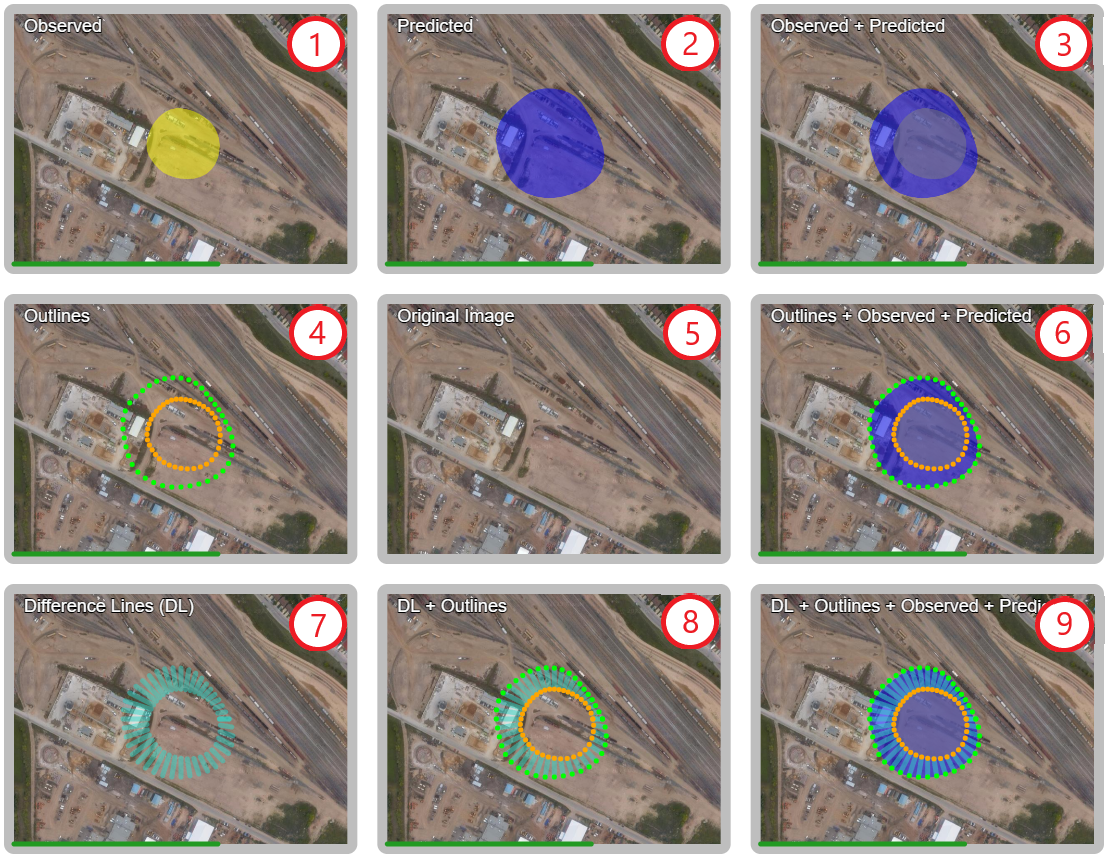
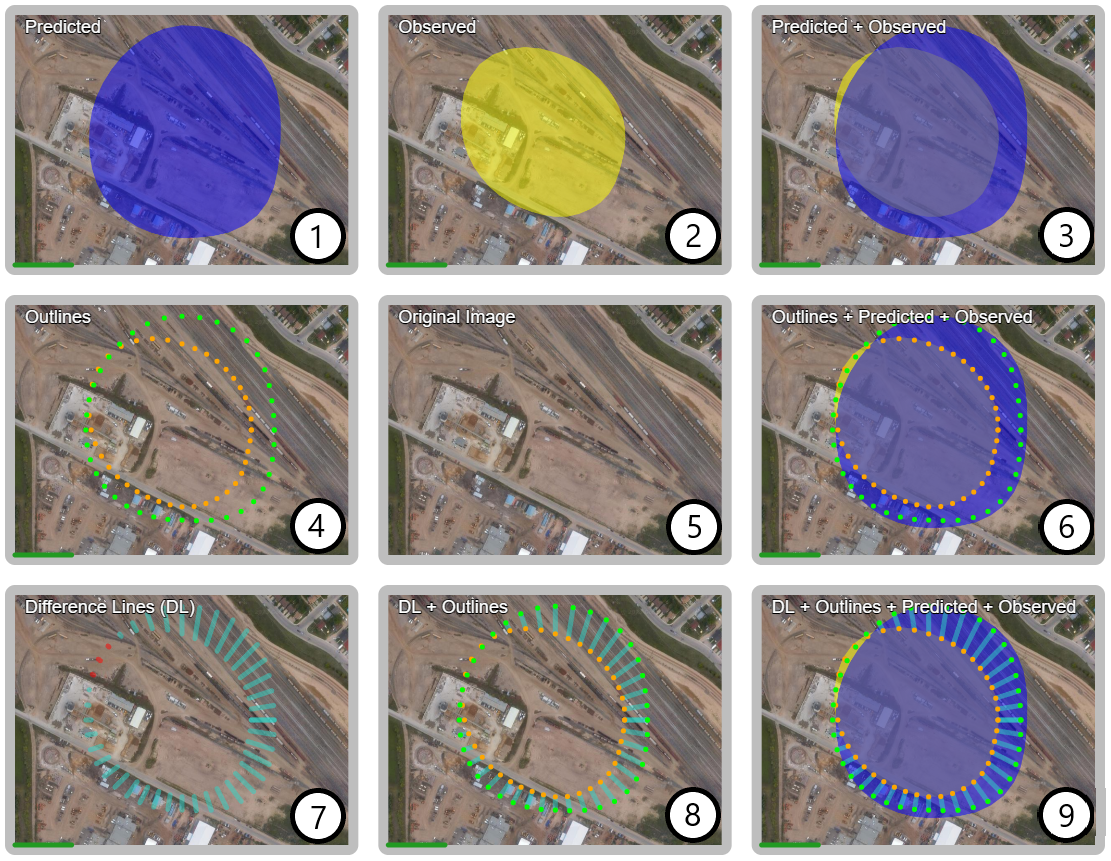
Modified tutorial 5 resulting from a misunderstanding of representation.

diff --git a/nodejs-timelapse-project/pages/tutorial5.html b/nodejs-timelapse-project/pages/tutorial5.html
@@ -41,6 +41,7 @@
             overflow-y: scroll;
             display: flex;
             flex-direction: column;
+            font-size: 20px;
         }
 
         .sidebarContent img {
@@ -134,17 +135,17 @@
 
             clear();
 
-            drawDisplay("Observed", (backgroundWidth + 20) * 0 + 20 * 1, (backgroundHeight + 20) * 0 + 20 * 1, true, false, false, false);
-            drawDisplay("Predicted", (backgroundWidth + 20) * 1 + 20 * 2, (backgroundHeight + 20) * 0 + 20 * 1, false, true, false, false);
-            drawDisplay("Observed + Predicted", (backgroundWidth + 20) * 2 + 20 * 3, (backgroundHeight + 20) * 0 + 20 * 1, true, true, false, false);
+            drawDisplay("Predicted", (backgroundWidth + 20) * 0 + 20 * 1, (backgroundHeight + 20) * 0 + 20 * 1, true, false, false, false);
+            drawDisplay("Observed", (backgroundWidth + 20) * 1 + 20 * 2, (backgroundHeight + 20) * 0 + 20 * 1, false, true, false, false);
+            drawDisplay("Predicted + Observed", (backgroundWidth + 20) * 2 + 20 * 3, (backgroundHeight + 20) * 0 + 20 * 1, true, true, false, false);
 
             drawDisplay("Outlines", (backgroundWidth + 20) * 0 + 20 * 1, (backgroundHeight + 20) * 1 + 20 * 2, false, false, true, false);
             drawDisplay("Original Image", (backgroundWidth + 20) * 1 + 20 * 2, (backgroundHeight + 20) * 1 + 20 * 2, false, false, false, false);
-            drawDisplay("Outlines + Observed + Predicted", (backgroundWidth + 20) * 2 + 20 * 3, (backgroundHeight + 20) * 1 + 20 * 2, true, true, true, false);
+            drawDisplay("Outlines + Predicted + Observed", (backgroundWidth + 20) * 2 + 20 * 3, (backgroundHeight + 20) * 1 + 20 * 2, true, true, true, false);
 
             drawDisplay("Difference Lines (DL)", (backgroundWidth + 20) * 0 + 20 * 1, (backgroundHeight + 20) * 2 + 20 * 3, false, false, false, true);
             drawDisplay("DL + Outlines", (backgroundWidth + 20) * 1 + 20 * 2, (backgroundHeight + 20) * 2 + 20 * 3, false, false, true, true);
-            drawDisplay("DL + Outlines + Observed + Predicted", (backgroundWidth + 20) * 2 + 20 * 3, (backgroundHeight + 20) * 2 + 20 * 3, true, true, true, true);
+            drawDisplay("DL + Outlines + Predicted + Observed", (backgroundWidth + 20) * 2 + 20 * 3, (backgroundHeight + 20) * 2 + 20 * 3, true, true, true, true);
         }
 
         function findMiddle(index1, index2) {
@@ -178,7 +179,7 @@
         /**
          * Draw a display for the explicit encoding blob example.
          */
-        function drawDisplay(label, left, top, observed, predicted, outlines, lines) {
+        function drawDisplay(label, left, top, predicted, observed, outlines, lines) {
             colorMode(RGB, 255);
             noStroke();
             fill(190, 190, 190);
@@ -314,82 +315,79 @@
         <div id="tutorialContent" class="sidebarContent hidden">
             <h1>Tutorial 5 - Explicit Encoding</h1>
             <p>
-                For the final task, imagine that you are an environmental protection researcher working for Environment
-                Canada who has developed a method to predict the scope of on-land oil spillages. Now, you need to test
-                the
-                accuracy of your prediction model using collected data from past oil spills.
+                For the final task, imagine that you are a microbiologist working for Environment Canada. You have been
+                researching the effectiveness of hydrocarbon-eating bacteria in cleaning up oil spills, and now that
+                you’ve tested these bacteria, you need to see how well they did against the predicted models.
             </p>
             <p>
-                To the left you will see nine side-by-side displays that you can use to compare the predicted model with
-                the
-                observed data. The displays have been laid out in a grid. Each
-                display is labeled with what is being represented. Here is a brief description of each representation:
+                To the left you will see nine side-by-side displays that you can use to compare the effectiveness of the
+                bacteria. Each display is running on a constant loop. A video progress bar is drawn under each display
+                to indicate the position in the video. Press spacebar to pause/play. Use the left and right arrow keys
+                to rewind/fast-forward.
             </p>
             <img src="../tutorials/img/tutorial-task-5-1.png" />
-            <ol>
-                <li>
-                    Display 1 is a video of the observed data from the oil spill, represented as a yellow blob and
-                    stacked over the original satellite image of the area of effect.
-                </li>
-                <li>
-                    Display 2 is a video of the predicted model data of the oil spill. This is represented as a blue
-                    blob,
-                    also stacked over the original image.
-                </li>
-                <li>
-                    Display 3 combines the observed and predicted data into a single overlayed video.
-                </li>
-                <li>
-                    Display 4 takes the outlines of the perimeters of both the observed and predicted data blobs and
-                    stacks them into one video. The orange outline is the observed data, while the green outline
-                    is the predicted data.
-                </li>
-                <li>
-                    Display 5 is a static image of the original area of effect.
-                </li>
-                <li>
-                    Display 6 combines the original blobs for the observed and predicted data with the outlined points
-                    in one overlayed video.
-                </li>
-                <li>
-                    Display 7 uses a technique called difference lines (DL). Difference lines is a representation of the
-                    relationship between the observed and predicted blobs. You will notice that the colours of lines
-                    change
-                    as the video plays. This means that the relationship has changed. If the observed data is farther
-                    from
-                    the center than the predicted data, then the lines will be coloured red. If the predicted data is
-                    farther from the center, then the lines will be coloured blue.
-                </li>
-                <li>
-                    Display 8 combines difference lines and the perimeter outlines of the data into one video.
-                </li>
-                <li>
-                    Display 9 combines every technique (i.e., observed & predicted data, perimeter outlines, and
-                    difference
-                    lines) into one overlay.
-                </li>
-            </ol>
+            <strong>
+                Displays are labeled. But for convenience, they will be described as displays 1 through 9 as in the
+                figure above. The middle image (display 5) is the original area of effect.
+            </strong>
             <p>
-                Each display is running in a constant loop. A video progress bar is drawn under each display to indicate
-                the
-                position in the video. Press spacebar to pause and use the left and right arrow keys to
-                rewind/fast-forward.
-                You can now test your model against the observed data.
+                Display 1 represents the predicted simulation of the effectiveness of the hydrocarbon-eating bacteria.
+                The blue blob represents the predicted scope of the oil spill over time. Display 2 represents the
+                observational data collected during an actual oil spill. The yellow
+                blob represents the true scope of the spill being reduced over time by the bacteria.
+            </p>
+            <img src="../tutorials/img/tutorial-task-5-2.png" />
+            <p>
+                Using these two videos to compare:
             </p>
             <ul>
-                <li>
-                    Does your model do a good job of predicting the scope of an oil spill?
-                </li>
-                <li>
-                    Does your model over-predict/under-predict the scope of the spill?
-                </li>
-                <li>
-                    If so, when, and where does this occur?
-                </li>
+                <li>Are the bacteria working as effectively as the simulation predicted?</li>
+                <li>Do the bacteria under/over-perform? If so, when, and where does this occur?</li>
             </ul>
             <p>
-                Once you are satisfied with your analysis, you can leave this page.
+                Display 3 combines both the predicted and the observed oil spill data into a single video.
             </p>
+            <img src="../tutorials/img/tutorial-task-5-3.png" />
+            <p>
+                Using this video to compare:
+            </p>
+            <ul>
+                <li>Are the bacteria working as effectively as the simulation predicted? Has your answer changed?</li>
+                <li>Do you prefer this combined video over the separate videos? Why or why not?</li>
+            </ul>
+            <p>
+                Display 4 introduces another representation of the oil spill over time. Dotted outlines are placed
+                around the perimeter of the predicted and observed data to replace the blobs. Display 6 combines the
+                outline representation with the spill blobs.
+            </p>
+            <img src="../tutorials/img/tutorial-task-5-4.png" />
+            <p>
+                Using these two videos to compare:
+            </p>
+            <ul>
+                <li>Are the bacteria working as effectively as the simulation predicted? Has your answer changed?</li>
+                <li>Which display do you prefer and why?</li>
+                <li>Does the outline technique make it easier to compare than the blobs? Why or why not?</li>
+            </ul>
+            <p>
+                Finally, display 7 introduces a representation of the difference between the predicted and observed oil
+                spill data called difference lines (DL). You will notice that the line colours change as the video
+                plays. The lines are coloured blue where the predicted blob is larger, and they are coloured red where
+                the observed blob is larger.
+            </p>
+            <p>
+                Display 8 combines this technique with perimeter outlines, and display 9 combines all techniques (i.e.,
+                observed & predicted blobs, perimeter outlines, and difference lines) into one video.
+            </p>
+            <img src="../tutorials/img/tutorial-task-5-5.png" />
+            <p>
+                Using these three videos to compare:
+            </p>
+            <ul>
+                <li>Are the bacteria working as effectively as the simulation predicted? Has your answer changed?</li>
+                <li>Which display do you prefer and why?</li>
+                <li>Do the difference lines make it easier to compare than the other techniques? Why or why not?</li>
+            </ul>
         </div>
     </div>
 </body>

diff --git a/nodejs-timelapse-project/stylesheet.css b/nodejs-timelapse-project/stylesheet.css
@@ -77,6 +77,7 @@ header {
     overflow-y: scroll;
     display: flex;
     flex-direction: column;
+    font-size: 20px;
 }
 
 .sidebarContent img {
